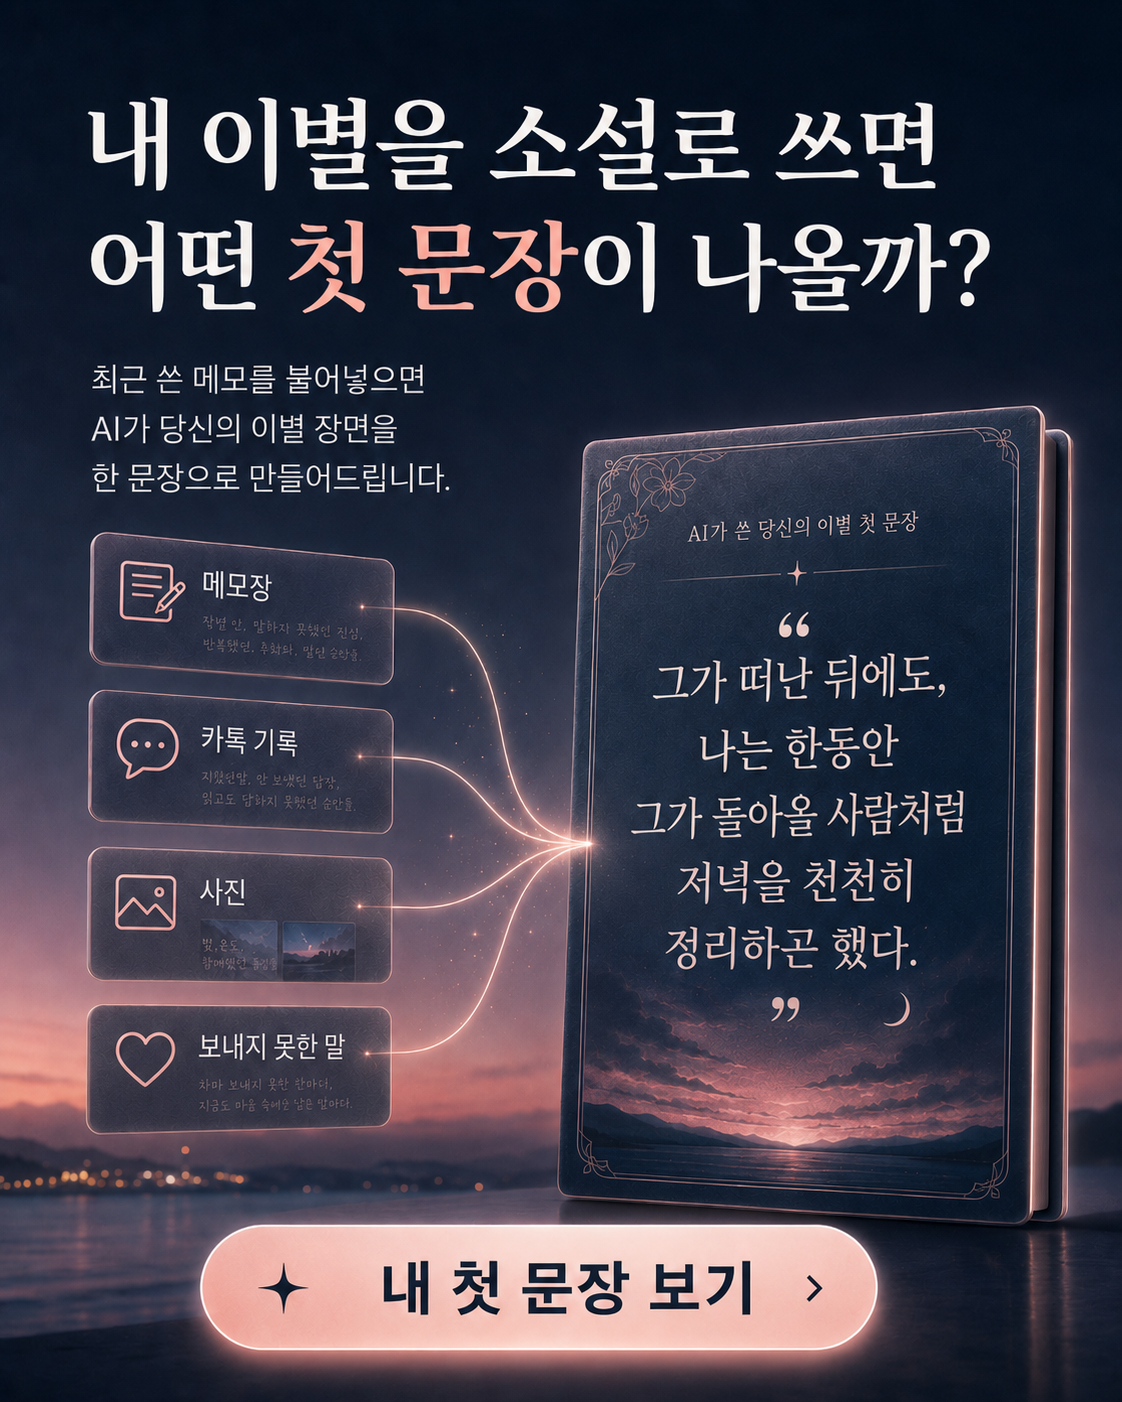
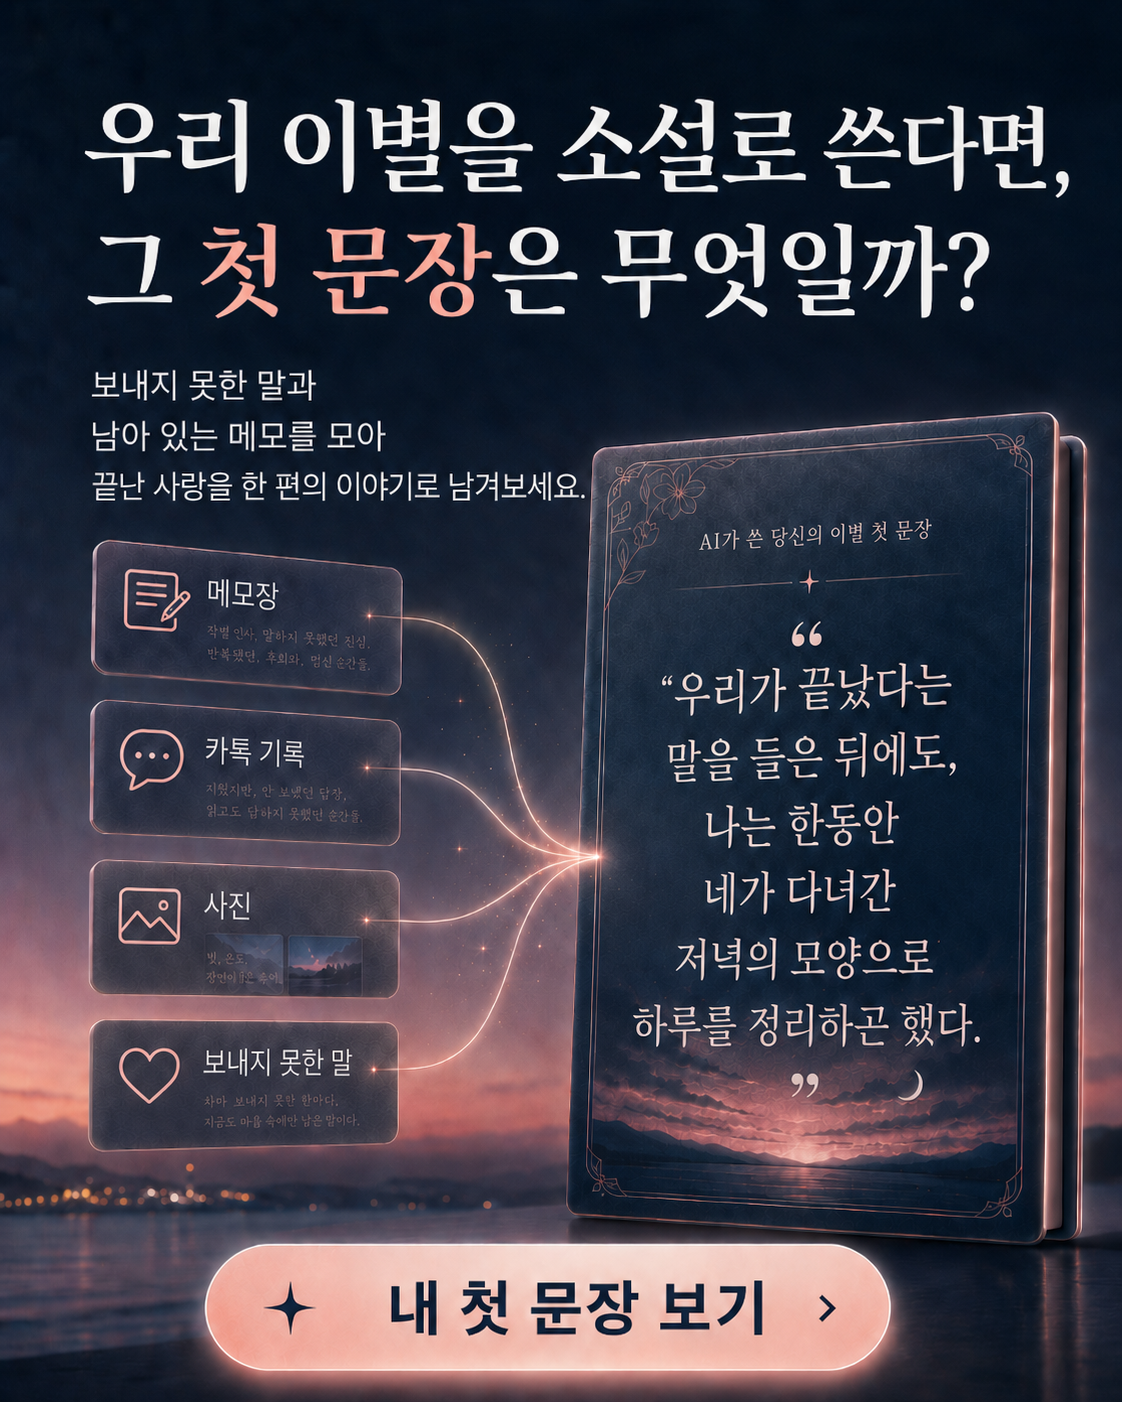
Update final hero image and title accents

Changed region(s): [[0.0, 0.0613, 1.0, 1.0], [0.4055, 0.4601, 0.4367, 0.4907]]

diff --git a/index.html b/index.html
@@ -804,6 +804,10 @@
     color: #FFF6EF !important;
     text-shadow: 0 1px 14px rgba(244,161,149,0.08);
   }
+  .title-accent {
+    color: #F4A195;
+    text-shadow: 0 0 18px rgba(244,161,149,0.18);
+  }
   .section-body,
   .feature-desc,
   .step-desc,
@@ -974,7 +978,7 @@
 <section class="hero">
   <!-- unsaid-hero.png 파일을 image 폴더에 저장하면 자동으로 표시됩니다 -->
   <div class="hero-image-wrap" id="heroImageWrap" style="display:none">
-    <img src="image/unsaid-hero.png" alt="Unsaid Story 서비스 화면" id="heroImage">
+    <img src="image/unsaid-hero.png?v=20260613-final" alt="Unsaid Story 서비스 화면" id="heroImage">
     <button class="hero-cta" onclick="openModal()">선착순 30명 무료 체험 신청</button>
   </div>
   <div class="hero-image-placeholder" id="heroPlaceholder">
@@ -1003,7 +1007,7 @@
 <!-- ═══ PROBLEM ═══ -->
 <section class="section problem-bg">
   <div class="section-label">The Problem</div>
-  <h2 class="section-title">그 사랑은 끝났는데<br>마음은 아직 문장을 찾고 있다</h2>
+  <h2 class="section-title">그 사랑은 끝났는데<br>마음은 아직 <span class="title-accent">문장을 찾고 있다</span></h2>
   <div class="problem-quote">
     <div class="quote-original">
       “Like when you've split up with someone... They don't understand the history, the background, don't know the pillars of memory that hold you up.”
@@ -1028,7 +1032,7 @@
 <!-- ═══ FEATURE ═══ -->
 <section class="feature-bg">
   <div style="padding: 48px 24px 8px; text-align: center;">
-    <h2 style="font-size: clamp(20px, 5.5vw, 28px); font-weight: 900; color: #151A2D; line-height: 1.35; letter-spacing: -0.03em;">흩어진 기록을 모아<br>당신만의 문학으로 만듭니다.</h2>
+    <h2 style="font-size: clamp(20px, 5.5vw, 28px); font-weight: 900; color: #151A2D; line-height: 1.35; letter-spacing: -0.03em;">흩어진 기록을 모아<br><span class="title-accent">당신만의 문학</span>으로 만듭니다.</h2>
   </div>
 
   <!-- 1: 텍스트 왼쪽 / 이미지 오른쪽 -->
@@ -1083,7 +1087,7 @@
 <!-- ═══ RESULT ═══ -->
 <section class="section result-bg">
   <div class="section-label">The Result</div>
-  <h2 class="section-title">이별을<br>이야기로 남기면</h2>
+  <h2 class="section-title">이별을<br><span class="title-accent">이야기</span>로 남기면</h2>
   <div class="result-card">
     <div class="result-card-title">끝난 사랑이<br><span>그냥 끝난 일로 남지 않는다</span></div>
     <ul class="result-list">
@@ -1098,7 +1102,7 @@
 <!-- ═══ VS ═══ -->
 <section class="section vs-bg">
   <div class="section-label">Why Unsaid Story</div>
-  <h2 class="section-title">그냥 GPT로 하는 것과<br>뭐가 다른가요?</h2>
+  <h2 class="section-title">그냥 <span class="title-accent">GPT</span>로 하는 것과<br>뭐가 다른가요?</h2>
   <table class="vs-table">
     <thead>
       <tr>
@@ -1120,7 +1124,7 @@
 <!-- ═══ SOCIAL PROOF ═══ -->
 <section class="section proof-bg">
   <div class="section-label">Early Feedback</div>
-  <h2 class="section-title">체험자들의<br>반응이에요</h2>
+  <h2 class="section-title">체험자들의<br><span class="title-accent">반응</span>이에요</h2>
   <div class="cards">
     <div class="proof-card">
       <div class="stars">★★★★★</div>
@@ -1171,9 +1175,9 @@
 <!-- ═══ FINAL CTA ═══ -->
 <section class="cta-section">
   <div class="section-label">Limited Beta</div>
-  <h2 class="section-title">당신의 이별 이야기를<br>무료로 먼저 받아보세요</h2>
+  <h2 class="section-title">당신의 이별 이야기를<br><span class="title-accent">무료로 먼저</span> 받아보세요</h2>
   <button class="cta-btn" onclick="openModal()">선착순 30명 무료 체험 신청</button>
-  <p class="cta-sub">선착순 마감 · 비용 없음 · 카카오톡으로 안내</p>
+  <p class="cta-sub">선착순 마감 · 비용 없음 · 신청만으로 완료</p>
 </section>
 
 <!-- ═══ FOOTER ═══ -->
@@ -1205,7 +1209,7 @@
     <div class="modal-handle"></div>
     <div id="formState">
       <div class="modal-title">무료 체험단 신청</div>
-      <div class="modal-sub">남겨주신 연락처로 카카오톡 안내를 보내드릴게요.</div>
+      <div class="modal-sub">무료 체험 신청을 위해 이름과 연락처를 남겨주세요.</div>
       <div class="form-group">
         <label class="form-label">이름</label>
         <input class="form-input" id="inputName" type="text" placeholder="홍길동" maxlength="10">
@@ -1228,7 +1232,7 @@
       <div class="success-icon">✓</div>
       <div class="success-title">신청 완료!</div>
       <div class="success-body">
-        24시간 내에 연락드릴게요.<br>
+        무료 체험 신청이 정상적으로 접수되었습니다.<br>
         남겨주신 이야기를 바탕으로<br>당신만의 이별 문학을 만들어드려요.
       </div>
     </div>